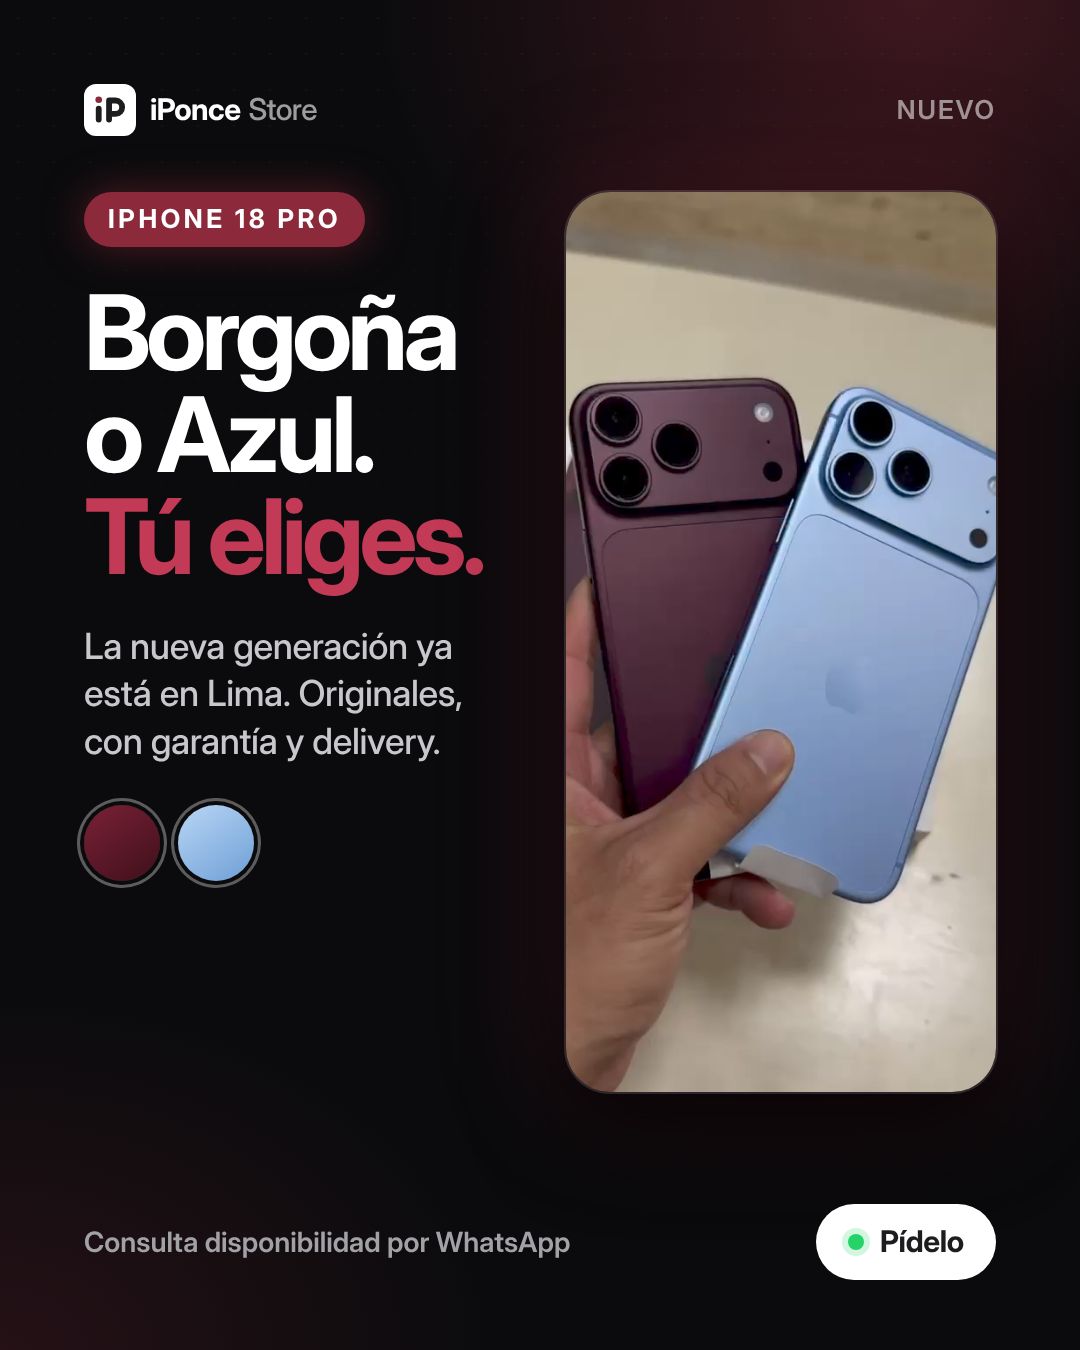
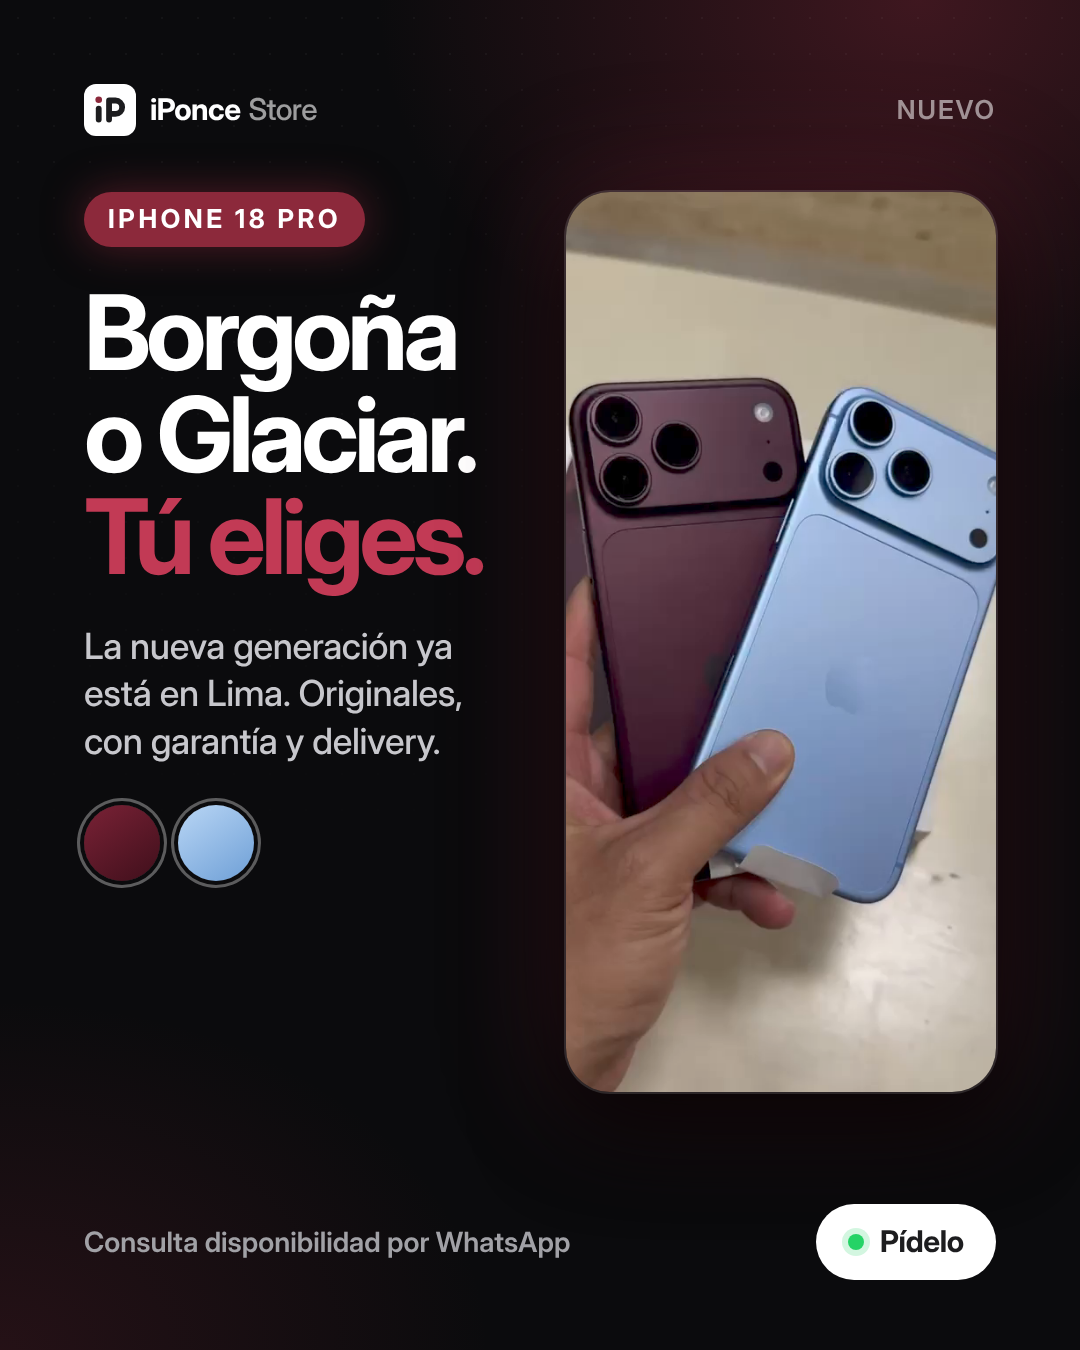
Cambiar Azul por Glaciar y Burgundy por Borgoña, los nombres oficiales de los colores
Claude-Session: https://claude.ai/code/session_01AGu2MBZCBgkEZc8YjBJeC6

Changed region(s): [[0.1222, 0.28, 0.4583, 0.3733]]

diff --git a/contenido/calendario-30-dias.md b/contenido/calendario-30-dias.md
@@ -36,7 +36,7 @@ Son puntos de partida. A las 3 semanas revisa en **Estadísticas** a qué hora s
 | Sábado | 🤝 Entregas y clientes | Reel o foto |
 | Domingo | 👋 Personal / comunidad | Foto + encuesta en historias |
 
-**Historias todos los días (3–5):** equipos llegando, empacando pedidos, encuestas ("¿Burgundy o Azul?"), preguntas ("¿Qué modelo buscas?"), cajas de preguntas y capturas de clientes felices.
+**Historias todos los días (3–5):** equipos llegando, empacando pedidos, encuestas ("¿Borgoña o Glaciar?"), preguntas ("¿Qué modelo buscas?"), cajas de preguntas y capturas de clientes felices.
 
 ---
 
@@ -50,7 +50,7 @@ Son puntos de partida. A las 3 semanas revisa en **Estadísticas** a qué hora s
 
 ### Día 2 (martes) · Reel: el video de colores ✅ (ya está listo)
 - **Archivo:** `iponce-reel-colores.mp4` con su portada.
-- **Descripción:** ¿Equipo Burgundy 🍷 o Azul cielo 🩵? Comenta tu color 👇 Te escribimos con precio y disponibilidad. #iPhone #iPhonePeru #iPhoneLima #Unboxing
+- **Descripción:** ¿Equipo Borgoña 🍷 o Glaciar 🩵? Comenta tu color 👇 Te escribimos con precio y disponibilidad. #iPhone #iPhonePeru #iPhoneLima #Unboxing
 - **Tip:** fija tu primer comentario: "Escríbenos al WhatsApp del perfil para cotizar 📲".
 
 ### Día 3 (miércoles) · Carrusel: "5 cosas que debes revisar antes de comprar un iPhone"
@@ -180,7 +180,7 @@ Son puntos de partida. A las 3 semanas revisa en **Estadísticas** a qué hora s
 
 ## Ideas de historias (todos los días)
 
-- Encuesta: "¿Burgundy o Azul?" / "¿Pro o Pro Max?"
+- Encuesta: "¿Borgoña o Glaciar?" / "¿Pro o Pro Max?"
 - Caja de preguntas: "Pregúntame lo que quieras sobre iPhone"
 - Cuenta regresiva: "Llegan equipos nuevos el viernes"
 - Detrás de cámaras: empacando, revisando IMEI, en camino a una entrega

diff --git a/contenido/posts/LEEME.md b/contenido/posts/LEEME.md
@@ -64,7 +64,7 @@
 > #iPhonePeru #iPhoneLima #TipsiPhone #iPonceStore
 
 ### Día 4 · iPhone 18 Pro
-> Borgoña o Azul. Tú eliges 🍷🩵
+> Borgoña o Glaciar. Tú eliges 🍷🩵
 >
 > El nuevo iPhone 18 Pro ya está en Lima: original, con garantía iPonce y delivery.
 >
@@ -101,7 +101,7 @@
 
 ## Cómo usar las historias
 
-1. **`01-encuesta-colores.png`:** súbela y agrega el sticker de **Encuesta** en la parte de abajo, con las opciones "🍷 Borgoña" y "🩵 Azul". Luego escribe por DM a todos los que voten.
+1. **`01-encuesta-colores.png`:** súbela y agrega el sticker de **Encuesta** en la parte de abajo, con las opciones "🍷 Borgoña" y "🩵 Glaciar". Luego escribe por DM a todos los que voten.
 2. **`02-preguntame.png`:** agrega el sticker de **Preguntas** en la mitad de abajo. Responde cada pregunta en una historia nueva.
 3. **`03-escribenos.png`:** agrega el sticker de **Enlace** con tu link de WhatsApp (`wa.me/51XXXXXXXXX`) debajo del botón blanco.
 
